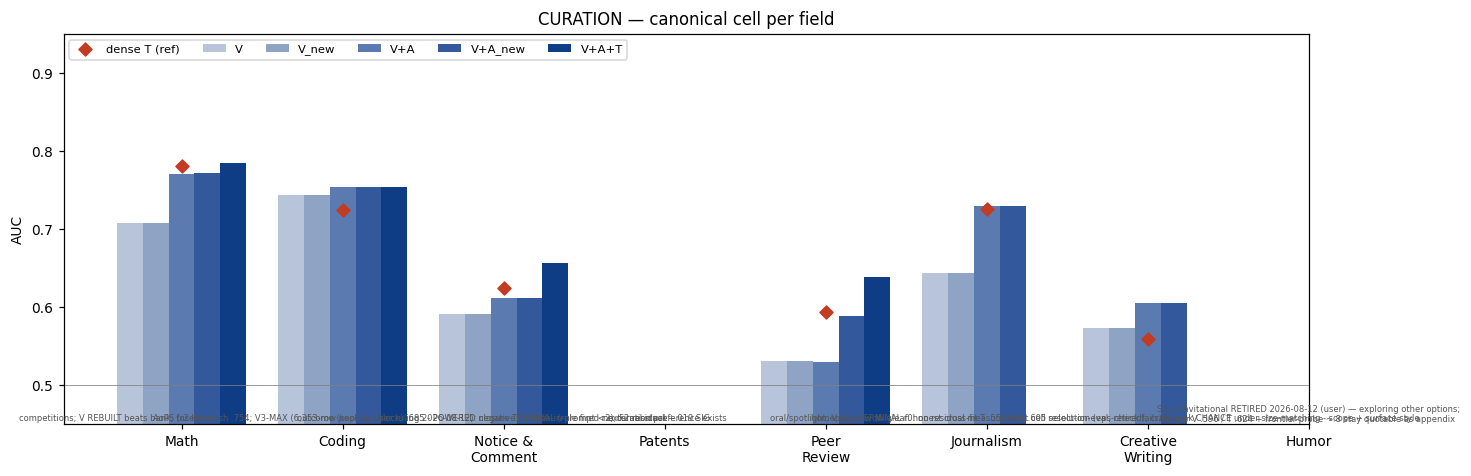
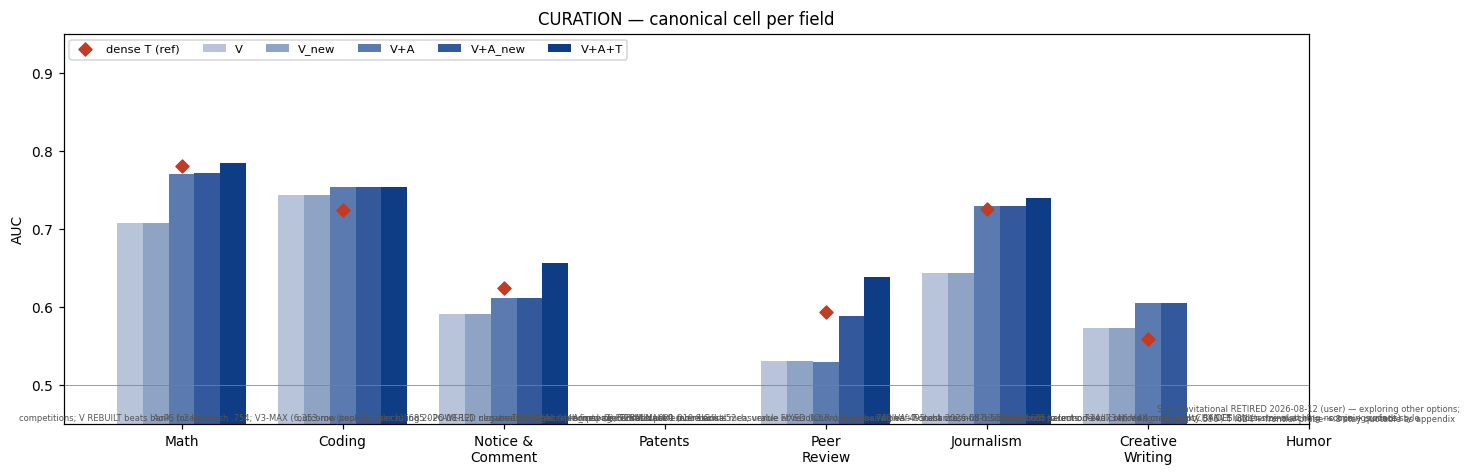
Homepage fused bar .740 (beats both parents); peer-curation deconfounding check: venue fixed, year chance, F2 null robust to unmodeled confounds

Changed region(s): [[0.3671, 0.4118, 0.9483, 0.9118]]

diff --git a/methods/taste_decomposition/homepage_fused_stack.py b/methods/taste_decomposition/homepage_fused_stack.py
@@ -1,0 +1,73 @@
+#!/usr/bin/env python3
+"""Homepage (journalism curation) FUSED bar (2026-08-13): §11-style grouped-OOF
+logistic stack of [VA_nl OOF, dense T] on the dense-held-out rows — fills the one
+empty ladder column for a cell whose closure is already terminal (r0, ε-resolvability
+fails). Runs ON sk3 (dense preds live there). Instrument: VA_nl OOF from
+homepage_curation_storygrouped_oof.npz (seed-mean), dense = seed-mean preds from
+dense_standard_storygrouped rm_out_seed{42,1,2}, order-join asserted per leg.
+"""
+import json
+import numpy as np
+import pandas as pd
+from pathlib import Path
+from sklearn.linear_model import LogisticRegression
+from sklearn.metrics import roc_auc_score
+from sklearn.model_selection import GroupKFold
+from sklearn.pipeline import make_pipeline
+from sklearn.preprocessing import StandardScaler
+
+NR = Path("/lfs/skampere3/0/alexspan/norm-research")
+D = NR / "datasets/news-homepages/va/dense_standard_storygrouped"
+OOF = NR / "methods/taste_decomposition/results/homepage_curation_storygrouped_oof.npz"
+
+z = np.load(OOF, allow_pickle=True)
+ids = [str(i) for i in z["ids"]]
+pos = {r: i for i, r in enumerate(ids)}
+va = z["VA_nl_mean3"]
+yv = z["y"].astype(int)
+grp = np.array([str(g) for g in z["groups"]])
+
+rows = []
+for leg in ("eval", "test"):
+    sp = pd.read_csv(D / "split" / f"{leg}.csv")
+    per_seed = []
+    for s in (42, 1, 2):
+        p = pd.read_csv(D / f"rm_out_seed{s}" / f"preds_{leg}.csv")
+        assert len(p) == len(sp) and (p["judgement"].values == sp["judgement"].values).all(), \
+            f"order-join fail {leg} seed{s}"
+        per_seed.append(p["prob"].values.astype(float))
+    dm = np.mean(per_seed, axis=0)
+    key = "row_id" if "row_id" in sp.columns else "id"
+    for rid, dp, yy in zip(sp[key].astype(str), dm, sp["judgement"].astype(int)):
+        rows.append((rid, dp, yy, leg))
+
+hit = [(r, d_, y_, l_) for r, d_, y_, l_ in rows if r in pos]
+print(f"dense-held-out rows joined to OOF matrix: {len(hit)}/{len(rows)}")
+idx = np.array([pos[r] for r, _, _, _ in hit])
+dense = np.array([d_ for _, d_, _, _ in hit])
+y = yv[idx]
+assert (y == np.array([y_ for _, _, y_, _ in hit])).all(), "y mismatch on join"
+g = grp[idx]
+leg = np.array([l_ for _, _, _, l_ in hit])
+
+S = np.column_stack([va[idx], dense])
+oof = np.zeros(len(y))
+for tr, te in GroupKFold(5).split(S, groups=g):
+    clf = make_pipeline(StandardScaler(), LogisticRegression(max_iter=2000))
+    clf.fit(S[tr], y[tr])
+    oof[te] = clf.predict_proba(S[te])[:, 1]
+
+out = {
+    "cell": "homepage_curation_storygrouped",
+    "n_heldout": int(len(y)),
+    "fused_stack_VA_T": float(roc_auc_score(y, oof)),
+    "fused_eval": float(roc_auc_score(y[leg == "eval"], oof[leg == "eval"])),
+    "fused_test": float(roc_auc_score(y[leg == "test"], oof[leg == "test"])),
+    "VA_nl_same_rows": float(roc_auc_score(y, va[idx])),
+    "dense_same_rows": float(roc_auc_score(y, dense)),
+    "note": "grouped-OOF logistic stack [VA_nl OOF, dense seed-mean] on dense-held-out; "
+            "fills the fused ladder column; closure remains terminal-r0 (unchanged)",
+}
+(NR / "methods/taste_decomposition/results/homepage_fused_stack.json").write_text(json.dumps(out, indent=1))
+print(json.dumps(out, indent=1))
+print("HOMEPAGE_FUSED_DONE")

diff --git a/notes/2026-07-27__vat-run-registry.md b/notes/2026-07-27__vat-run-registry.md
@@ -4008,3 +4008,20 @@ Coordinator-executed (subagent cap spent; V_new agent handed off with clean stat
   absorbed the dense edge down to ~.009 — a mining fleet would chase eps-scale
   headroom. Propose declaring the cell CLOSED at phase 2 unless the formal mined
   column is wanted; awaiting user.
+
+## 2026-08-13 — homepage fused bar + peer-curation deconfounding check (user Qs)
+- **Homepage fused LANDED**: grouped-OOF stack [VA_nl OOF, dense seed-mean] on the
+  2,631 dense-held-out rows = **.7402 pooled (.7258 eval / .7544 test)** — beats
+  both parents (VA .7143 / dense .7340 same rows). Fills the last empty journalism-
+  curation column; closure unchanged (terminal r0). V+A_new stays empty BY DESIGN:
+  terminal at round 0 = no mining rounds = no mined criteria.
+  results/homepage_fused_stack.json.
+- **Peer curation deconfounding audit (question-answer)**: F2 primary is NULL
+  (-.0006, P=.48) over bank + 52 mined nuisance channels. Venue is FIXED by
+  construction (population 100% ICLR); **year-alone AUC .4951 = chance** (checked
+  today; pos-rate wobbles by year but composition washes out); nuisance_struct=0
+  (no explicit year/venue covariates) BUT the null-residual asymmetry applies:
+  adding covariates to (c) can only shrink (d)-(c) further — a null cannot be
+  manufactured by missing confounds. The fleet itself mined the identity-adjacent
+  channel (r1:B09 "Identity-revealing URLs, handles and organisation-named host").
+  LEVELS are raw instrument AUCs (ladder convention, all cells).
